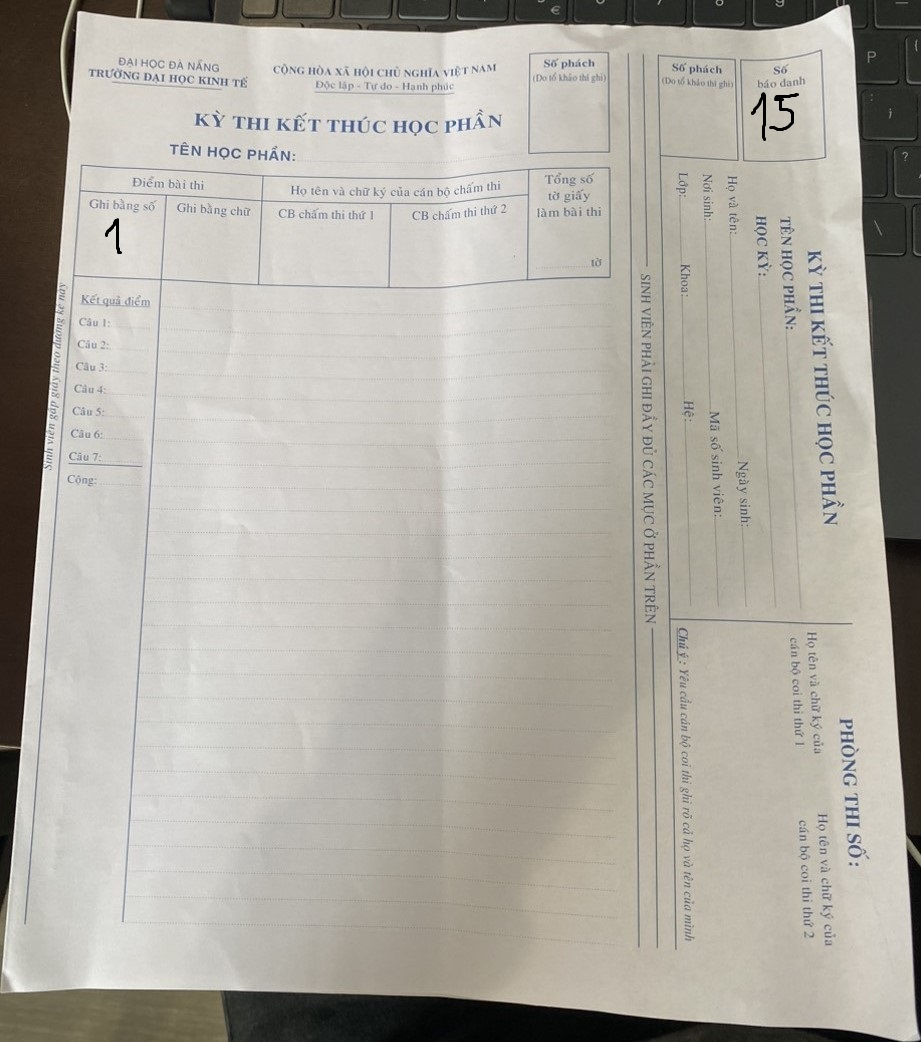
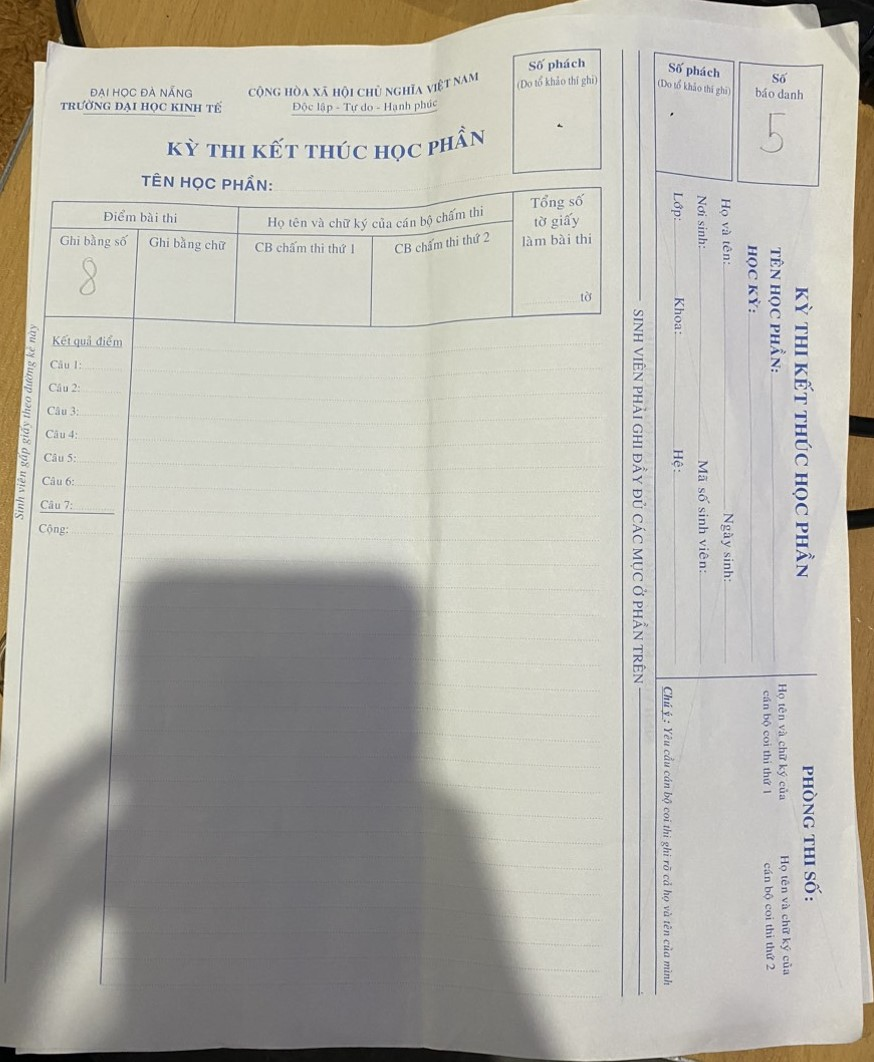
thanhluan

diff --git a/num_service/functionEssayMarking.py b/num_service/functionEssayMarking.py
@@ -21,9 +21,10 @@ class ImageProcessing:
     
     def crop(self, img, object_name): 
         if object_name == 'marking': 
-            return img[50:int(self.H/3), :int(self.W/4)]
-        return img[int(self.H*0.5/7):int(self.H/5), int(self.W*4/6):int(self.W*4.5/6)]
-    
+            return img[95:int(self.H/2.8), :int(self.W/4)] ## img[50:int(self.H/2.8), :int(self.W/4)]
+        return img[int(self.H*0.5/7):int(self.H/5), int(self.W*3.5/6):int(self.W*4.5/6)]
+        # img[int(self.H*0.5/7):int(self.H/5), int(self.W*4/6):int(self.W*4.5/6)]
+        
     def grayScale(self, img): 
         return cv2.cvtColor(img, cv2.COLOR_BGR2GRAY)
     
@@ -80,7 +81,7 @@ class ImageProcessing:
         grayImage = self.grayScale(image)
         binary = self.binary(grayImage)
         image = self.convert_binary(binary)
-
+        
         cv2.imshow('ID', image)
         cv2.waitKey(0)
         cv2.destroyAllWindows()
@@ -112,7 +113,7 @@ class ExtractMark:
         return record
     
 def main(): 
-    processing = ImageProcessing('2.jpg')
+    processing = ImageProcessing('test1.jpg')
     marking = processing.detect_marking()
     id = processing.detect_ID()
     image = [marking, id]
